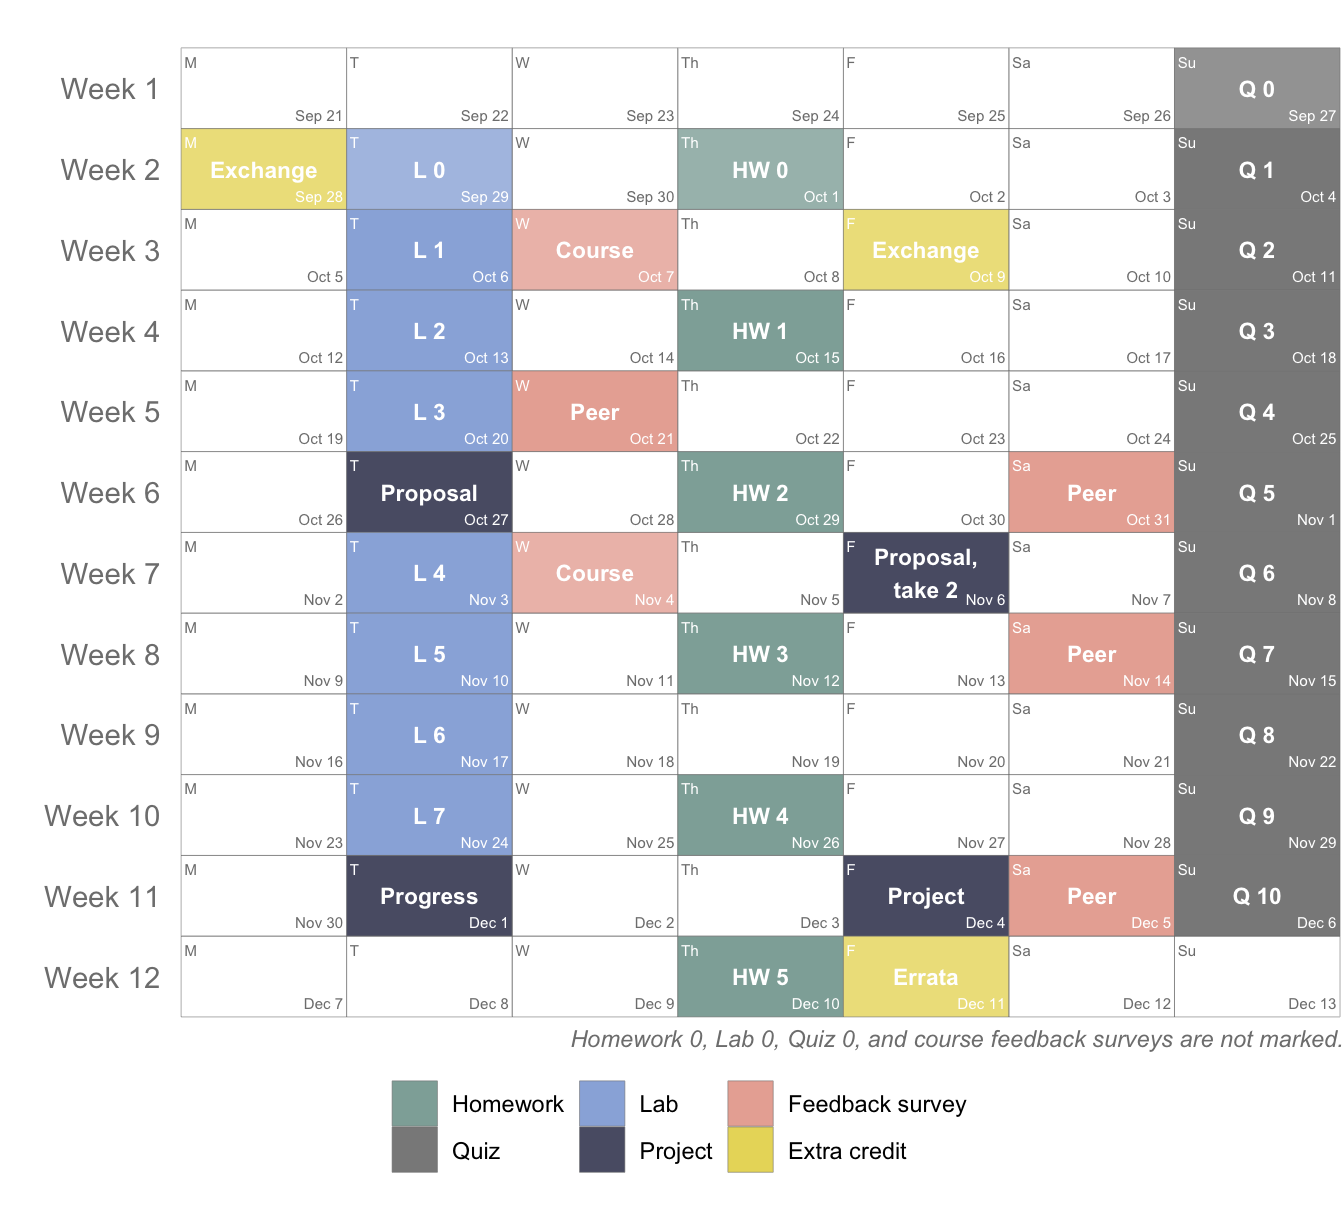
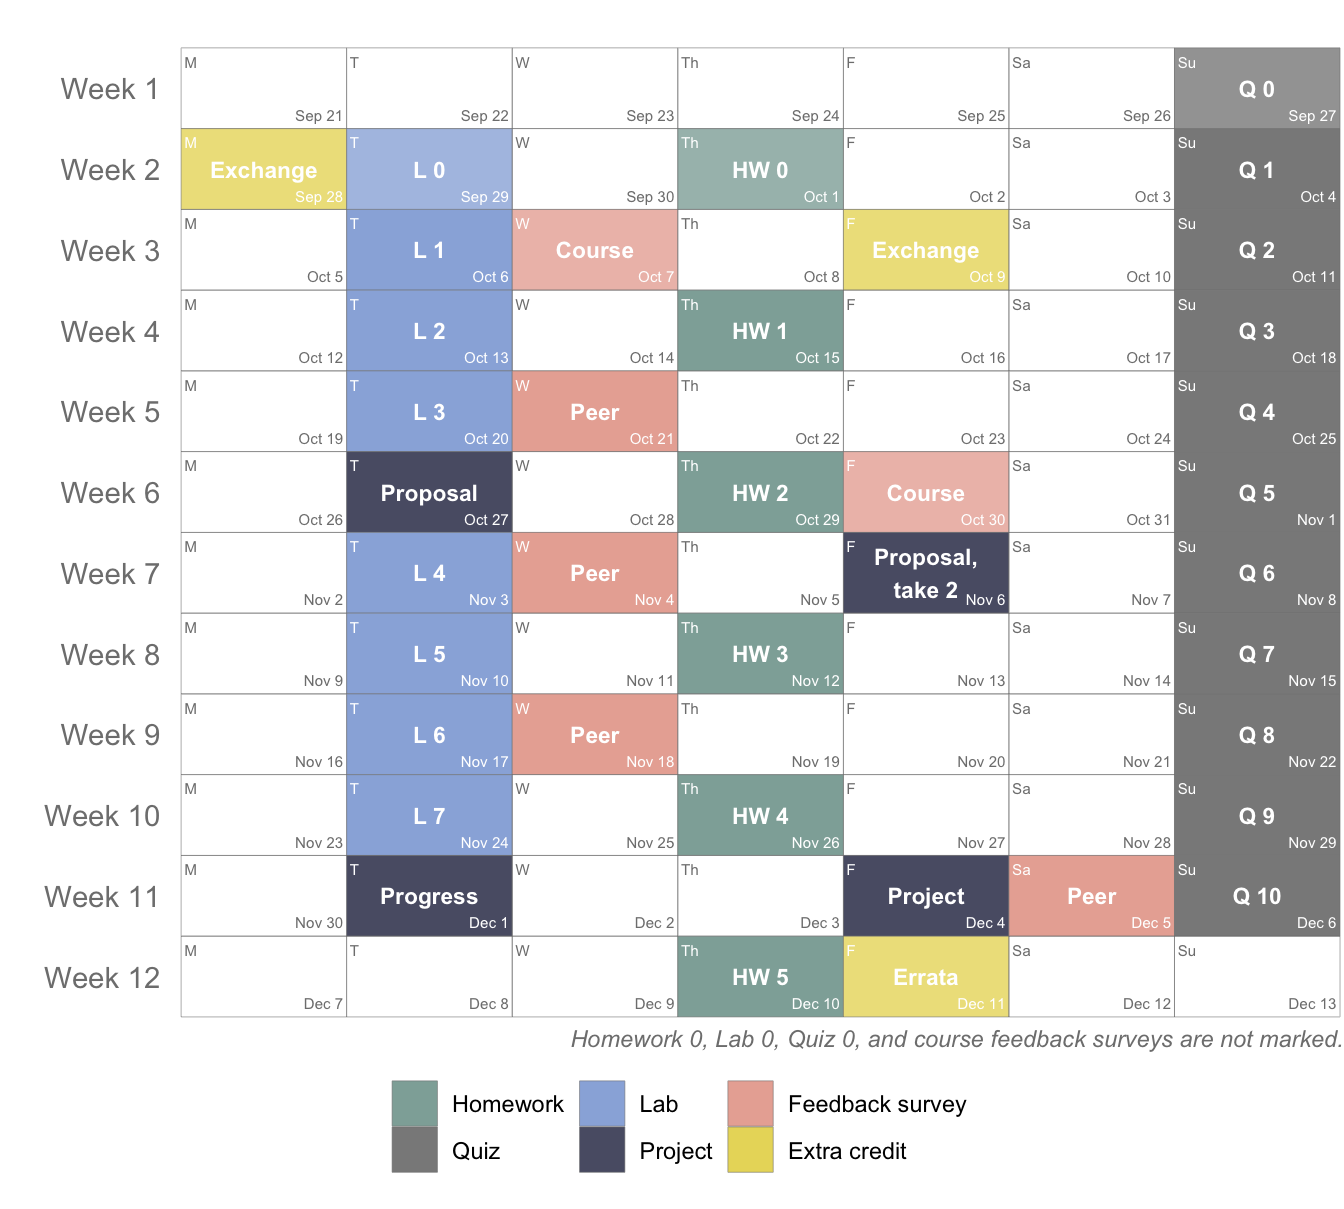
Move eval deadlines

diff --git a/content/post/00-overview/index_files/anchor-sections/anchor-sections.js b/content/post/00-overview/index_files/anchor-sections/anchor-sections.js
@@ -1,5 +1,10 @@
 // Anchor sections v1.0 written by Atsushi Yasumoto on Oct 3rd, 2020.
 document.addEventListener('DOMContentLoaded', function() {
+  // Do nothing if AnchorJS is used
+  if (typeof window.anchors === 'object' && anchors.hasOwnProperty('hasAnchorJSLink')) {
+    return;
+  }
+
   const h = document.querySelectorAll('h1, h2, h3, h4, h5, h6');
 
   // Do nothing if sections are already anchored
